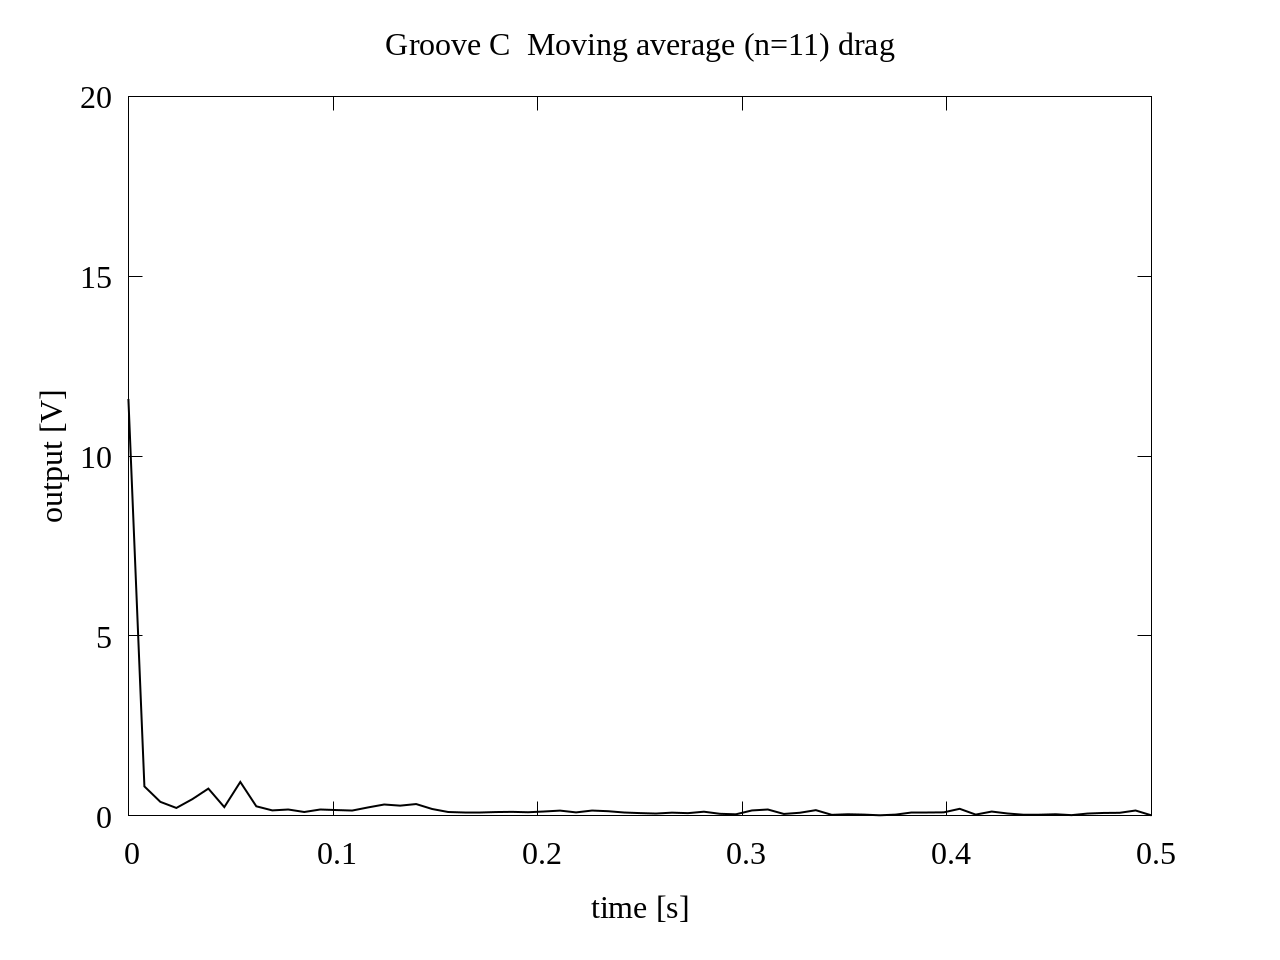
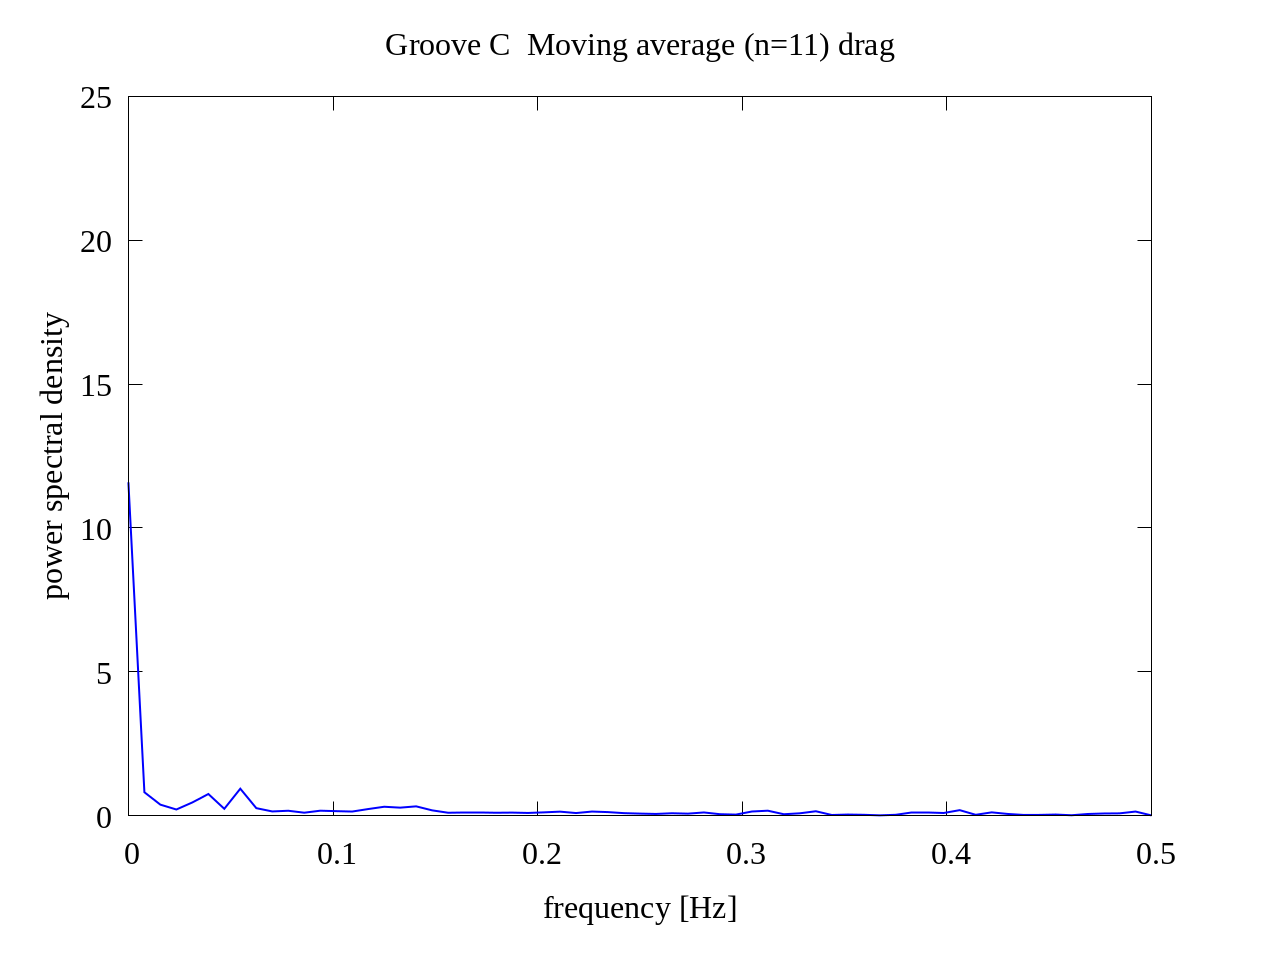
graphs

diff --git a/03_research/32_programs/01_ma/files/moving_average.h b/03_research/32_programs/01_ma/files/moving_average.h
@@ -66,20 +66,16 @@ char graphname11[100];
 char graphname12[100];
 
 // ファイル名作成
-sprintf(graphname1, "..//..//33_result//%s//moving_average//%d//drag//02//%s_ma(%d)_drag_02.png", date, range_ma, name, range_ma);
-sprintf(graphname2, "..//..//33_result//%s//moving_average//%d//lift//02//%s_ma(%d)_lift_02.png", date, range_ma, name, range_ma);
-
-sprintf(graphname3, "..//..//33_result//%s//moving_average//%d//drag//03//%s_ma(%d)_drag_03.png", date, range_ma, name, range_ma);
-sprintf(graphname4, "..//..//33_result//%s//moving_average//%d//lift//03//%s_ma(%d)_lift_03.png", date, range_ma, name, range_ma);
-
-sprintf(graphname5, "..//..//33_result//%s//moving_average//%d//drag//04//%s_ma(%d)_drag_04.png", date, range_ma, name, range_ma);
-sprintf(graphname6, "..//..//33_result//%s//moving_average//%d//lift//04//%s_ma(%d)_lift_04.png", date, range_ma, name, range_ma);
-
-sprintf(graphname7, "..//..//33_result//%s//moving_average//%d//drag//05//%s_ma(%d)_drag_05.png", date, range_ma, name, range_ma);
-sprintf(graphname8, "..//..//33_result//%s//moving_average//%d//lift//05//%s_ma(%d)_lift_05.png", date, range_ma, name, range_ma);
-
-sprintf(graphname9, "..//..//33_result//%s//moving_average//%d//drag//06//%s_ma(%d)_drag_06.png", date, range_ma, name, range_ma);
-sprintf(graphname10, "..//..//33_result//%s//moving_average//%d//lift//06//%s_ma(%d)_lift_06.png", date, range_ma, name, range_ma);
-
-sprintf(graphname11, "..//..//33_result//%s//moving_average//%d//drag//07//%s_ma(%d)_lift_07.png", date, range_ma, name, range_ma);
-sprintf(graphname12, "..//..//33_result//%s//moving_average//%d//lift//07//%s_ma(%d)_lift_07.png", date, range_ma, name, range_ma);
+ sprintf(graphname1, "..//..//33_result//%s//moving_average//%d//graph//drag//02//%s_ma(%d)_drag_02.png", date, range_ma, name, range_ma);
+ sprintf(graphname2, "..//..//33_result//%s//moving_average//%d//graph//lift//02//%s_ma(%d)_lift_02.png", date, range_ma, name, range_ma);
+ sprintf(graphname3, "..//..//33_result//%s//moving_average//%d//graph//drag//03//%s_ma(%d)_drag_03.png", date, range_ma, name, range_ma);
+ sprintf(graphname4, "..//..//33_result//%s//moving_average//%d//graph//lift//03//%s_ma(%d)_lift_03.png", date, range_ma, name, range_ma);
+ sprintf(graphname5, "..//..//33_result//%s//moving_average//%d//graph//drag//04//%s_ma(%d)_drag_04.png", date, range_ma, name, range_ma);
+ sprintf(graphname6, "..//..//33_result//%s//moving_average//%d//graph//lift//04//%s_ma(%d)_lift_04.png", date, range_ma, name, range_ma);
+ sprintf(graphname7, "..//..//33_result//%s//moving_average//%d//graph//drag//05//%s_ma(%d)_drag_05.png", date, range_ma, name, range_ma);
+ sprintf(graphname8, "..//..//33_result//%s//moving_average//%d//graph//lift//05//%s_ma(%d)_lift_05.png", date, range_ma, name, range_ma);
+ sprintf(graphname9, "..//..//33_result//%s//moving_average//%d//graph//drag//06//%s_ma(%d)_drag_06.png", date, range_ma, name, range_ma);
+sprintf(graphname10, "..//..//33_result//%s//moving_average//%d//graph//lift//06//%s_ma(%d)_lift_06.png", date, range_ma, name, range_ma);
+sprintf(graphname11, "..//..//33_result//%s//moving_average//%d//graph//drag//07//%s_ma(%d)_drag_07.png", date, range_ma, name, range_ma);
+sprintf(graphname12, "..//..//33_result//%s//moving_average//%d//graph//lift//07//%s_ma(%d)_lift_07.png", date, range_ma, name, range_ma);
+sprintf(graphname13, "..//..//33_result//%s//moving_average//%d//graph//lift//07//%s_ma(%d)_lift_07.png", date, range_ma, name, range_ma);

diff --git a/03_research/32_programs/01_ma/plot/06.h b/03_research/32_programs/01_ma/plot/06.h
@@ -15,13 +15,13 @@ fprintf(gp, "set tmargin screen 0.90\n");
 fprintf(gp, "set bmargin screen 0.15\n");
 
 fprintf(gp, "set xrange [0:0.5]\n");
-fprintf(gp, "set xlabel '%s'offset 0.0,0\n", xxlabel);
-fprintf(gp, "set yrange [0:20]\n");
-fprintf(gp, "set ylabel '%s'offset 1,0.0\n", yylabel);
+fprintf(gp, "set xlabel 'frequency [Hz]'offset 0.0,0\n");
+fprintf(gp, "set yrange [0:25]\n");
+fprintf(gp, "set ylabel 'power spectral density'offset 1,0.0\n");
 fprintf(gp, "set title '%s drag'\n", label);
 
 // fprintf(gp, "set samples 10000\n");
-fprintf(gp, "plot '%s' using 2:1 with lines lw 2 lc 'black' notitle\n", filename9);
+fprintf(gp, "plot '%s' using 2:1 with lines lw 2 lc 'blue' notitle\n", filename9);
 
 fflush(gp); //Clean up Data
 
@@ -42,13 +42,13 @@ fprintf(gp, "set tmargin screen 0.90\n");
 fprintf(gp, "set bmargin screen 0.15\n");
 
 fprintf(gp, "set xrange [0:0.5]\n");
-fprintf(gp, "set xlabel '%s'offset 0.0,0\n", xxlabel);
+fprintf(gp, "set xlabel 'frequency [Hz]'offset 0.0,0\n");
 fprintf(gp, "set yrange [0:25]\n");
-fprintf(gp, "set ylabel '%s'offset 1,0.0\n", yylabel);
+fprintf(gp, "set ylabel 'power spectral density'offset 1,0.0\n");
 fprintf(gp, "set title '%s drag'\n", label);
 
 // fprintf(gp, "set samples 10000\n");
-fprintf(gp, "plot '%s' using 2:1 with lines lw 2 lc 'black' notitle\n", filename10);
+fprintf(gp, "plot '%s' using 2:1 with lines lw 2 lc 'blue' notitle\n", filename10);
 
 fflush(gp); //Clean up Data
 
@@ -69,13 +69,13 @@ fprintf(gp, "set tmargin screen 0.90\n");
 fprintf(gp, "set bmargin screen 0.15\n");
 
 fprintf(gp, "set xrange [0:0.5]\n");
-fprintf(gp, "set xlabel '%s'offset 0.0,0\n", xxlabel);
-fprintf(gp, "set yrange [0:20]\n");
-fprintf(gp, "set ylabel '%s'offset 1,0.0\n", yylabel);
+fprintf(gp, "set xlabel 'frequency [Hz]'offset 0.0,0\n");
+fprintf(gp, "set yrange [0:25]\n");
+fprintf(gp, "set ylabel 'power spectral density'offset 1,0.0\n");
 fprintf(gp, "set title '%s drag'\n", label);
 
 // fprintf(gp, "set samples 10000\n");
-fprintf(gp, "plot '%s' using 2:1 with lines lw 2 lc 'black' notitle\n", filename11);
+fprintf(gp, "plot '%s' using 2:1 with lines lw 2 lc 'red' notitle\n", filename11);
 
 fflush(gp); //Clean up Data
 
@@ -96,12 +96,12 @@ fprintf(gp, "set tmargin screen 0.90\n");
 fprintf(gp, "set bmargin screen 0.15\n");
 
 fprintf(gp, "set xrange [0:0.5]\n");
-fprintf(gp, "set xlabel '%s'offset 0.0,0\n", xxlabel);
-fprintf(gp, "set yrange [0:50]\n");
-fprintf(gp, "set ylabel '%s'offset 1,0.0\n", yylabel);
+fprintf(gp, "set xlabel 'frequency [Hz]'offset 0.0,0\n");
+fprintf(gp, "set yrange [0:25]\n");
+fprintf(gp, "set ylabel 'power spectral density'offset 1,0.0\n");
 fprintf(gp, "set title '%s drag'\n", label);
 
 // fprintf(gp, "set samples 10000\n");
-fprintf(gp, "plot '%s' using 2:1 with lines lw 2 lc 'black' notitle\n", filename12);
+fprintf(gp, "plot '%s' using 2:1 with lines lw 2 lc 'red' notitle\n", filename12);
 
 fflush(gp); //Clean up Data
